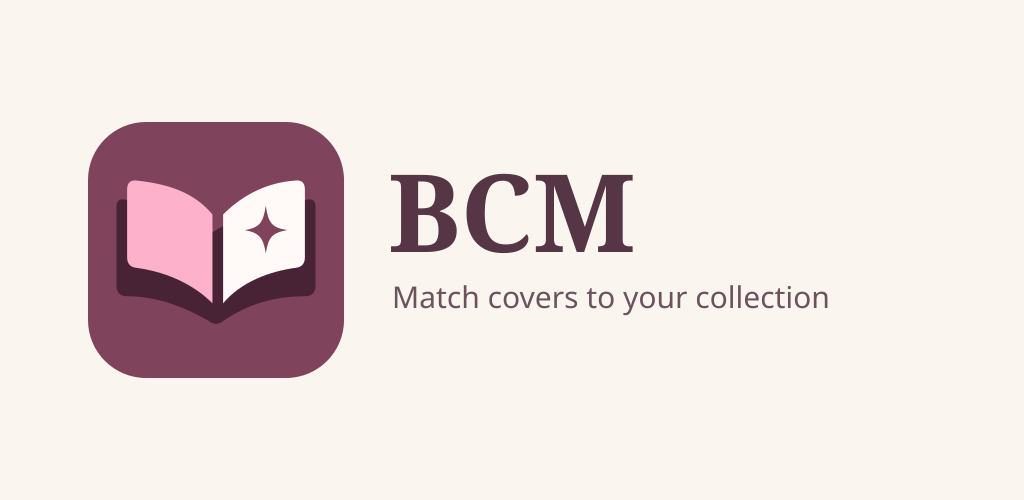
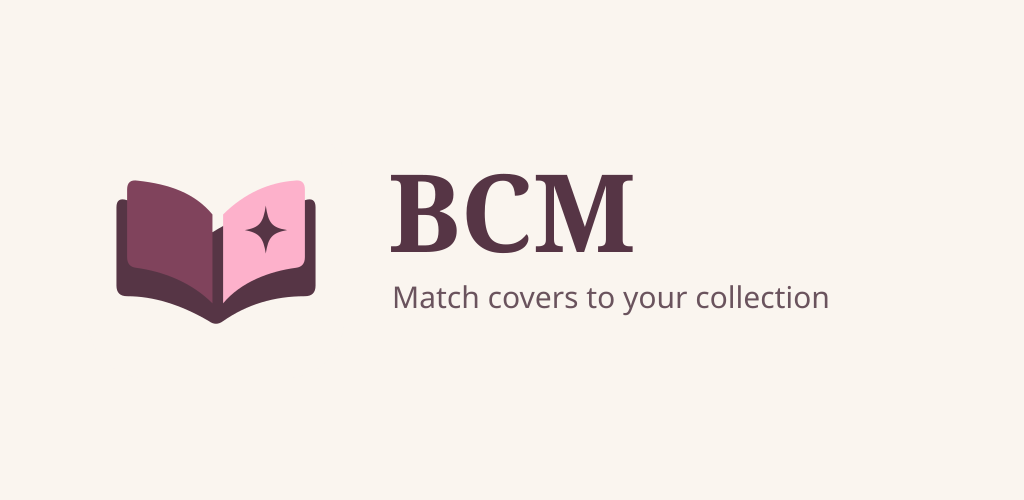
Use cream and rose for light mode and carry the rose tile into dark mode

Changed region(s): [[0.0625, 0.24, 0.3438, 0.78]]

diff --git a/branding/README.md b/branding/README.md
@@ -1,6 +1,6 @@
 # BCM branding assets
 
-BCM’s mark is an open book with a four-point glint on the right page. The full-color launcher uses Polo’s Atelier’s Sophie palette, with a rose tile in daytime and a plum tile at night. The Home header follows **More → Display**. On Android launchers that offer themed icons, Android supplies the colors for a separate silhouette with a transparent page crease and glint.
+BCM’s mark is an open book with a four-point glint on the right page. The full-color launcher uses Polo’s Atelier’s Sophie palette, with a cream tile and rose book in daytime. At night it uses a deep rose tile with blush and ivory pages. The Home header follows **More → Display**. On Android launchers that offer themed icons, Android supplies the colors for a separate silhouette with a transparent page crease and glint.
 
 ## Artwork and exports
 
